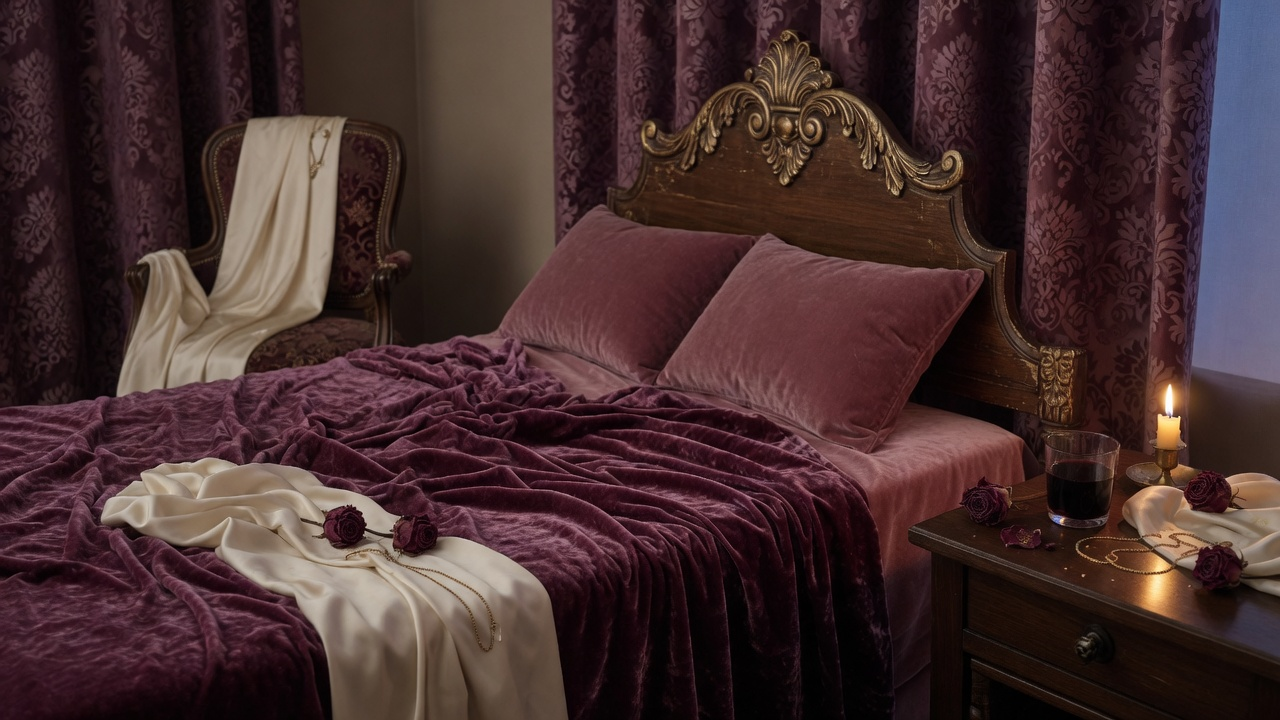
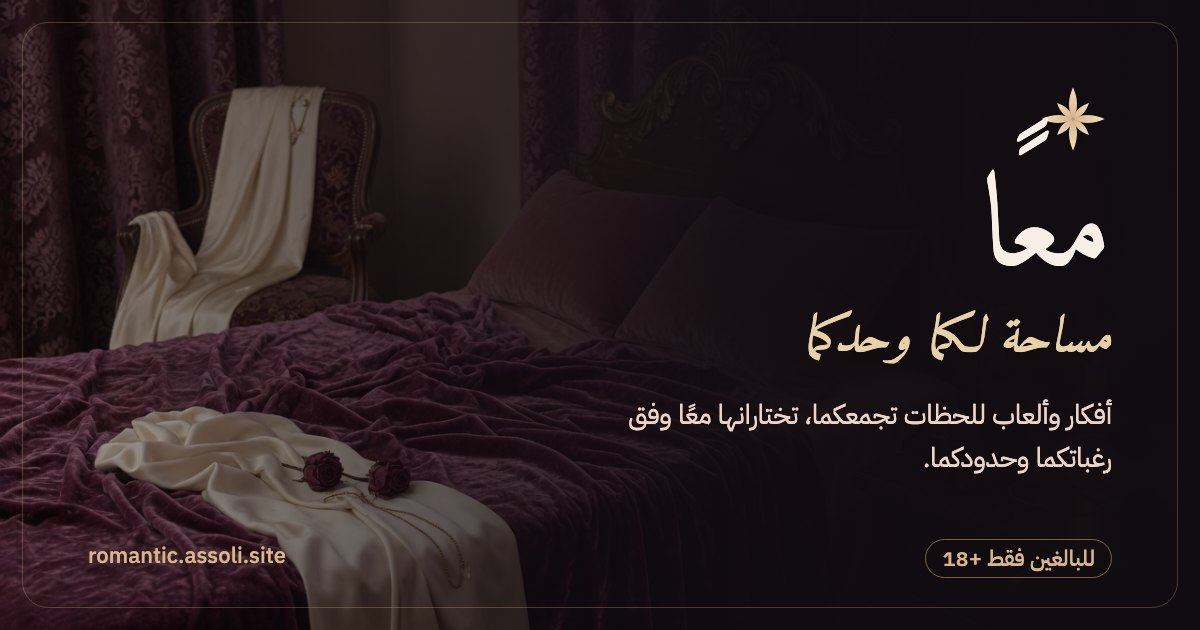
feat: add site branding and SEO metadata

diff --git a/app/layout.tsx b/app/layout.tsx
@@ -1,6 +1,7 @@
-import type { Metadata } from "next";
+import type { Metadata, Viewport } from "next";
 import { Amiri, IBM_Plex_Sans_Arabic } from "next/font/google";
 import "./globals.css";
+import { SITE_URL } from "../lib/site";
 import { Providers } from "./providers";
 
 const display = Amiri({
@@ -18,12 +19,38 @@ const sans = IBM_Plex_Sans_Arabic({
   display: "swap",
 });
 
+const description =
+  "أفكار وألعاب للحظات تجمعكما، تختارانها معًا وفق رغباتكما وحدودكما. للأزواج البالغين.";
+
 export const metadata: Metadata = {
-  // Absolute links for the share image: set SITE_URL to the public address.
-  metadataBase: new URL(process.env.SITE_URL ?? "http://localhost:3100"),
+  // Absolute links for share images, canonical, and the sitemap.
+  metadataBase: new URL(SITE_URL),
   title: { default: "معًا — مساحة لكما وحدكما", template: "%s — معًا" },
-  description:
-    "أفكار وألعاب للحظات تجمعكما، تختارانها معًا وفق رغباتكما وحدودكما. للأزواج البالغين.",
+  description,
+  applicationName: "معًا",
+  openGraph: {
+    type: "website",
+    siteName: "معًا",
+    locale: "ar_AR",
+  },
+  twitter: { card: "summary_large_image" },
+  // Tells SafeSearch this is adult content, so it is only shown to adults.
+  other: { rating: "adult" },
+};
+
+// Outside the age gate, so crawlers read it in the first HTML.
+const jsonLd = {
+  "@context": "https://schema.org",
+  "@type": "WebSite",
+  name: "معًا",
+  url: SITE_URL,
+  inLanguage: "ar",
+  isFamilyFriendly: false,
+};
+
+export const viewport: Viewport = {
+  themeColor: "#110c10",
+  colorScheme: "dark",
 };
 
 export default function RootLayout({ children }: LayoutProps<"/">) {
@@ -35,6 +62,7 @@ export default function RootLayout({ children }: LayoutProps<"/">) {
       className={`${display.variable} ${sans.variable} h-full antialiased`}
     >
       <body className="min-h-full flex flex-col">
+        <script type="application/ld+json">{JSON.stringify(jsonLd)}</script>
         <Providers>{children}</Providers>
       </body>
     </html>

diff --git a/app/play/layout.tsx b/app/play/layout.tsx
@@ -6,6 +6,7 @@ import { EndSession, Session } from "./session";
 
 export const metadata: Metadata = {
   title: "العبا معًا",
+  alternates: { canonical: "/play" },
   description:
     "بطاقات وعجلة وتوافق رغبات ووضعيات ومسار لليلة لزوجين بالغين، لا يظهر فيها إلا ما يقبله كلاكما.",
 };
@@ -17,9 +18,7 @@ export default function PlayLayout({ children }: LayoutProps<"/play">) {
         <div className="grain" aria-hidden="true" />
         <header className="site-header wrap">
           <Link className="brand" href="/" aria-label="معًا، الصفحة الرئيسية">
-            <span className="brand-mark" aria-hidden="true">
-              ✳
-            </span>
+            <span className="brand-mark" aria-hidden="true" />
             معًا
           </Link>
           <nav aria-label="التنقل الرئيسي">
@@ -35,9 +34,7 @@ export default function PlayLayout({ children }: LayoutProps<"/play">) {
         <NeedsLimits>{children}</NeedsLimits>
         <footer className="site-footer wrap">
           <Link className="brand" href="/">
-            <span className="brand-mark" aria-hidden="true">
-              ✳
-            </span>
+            <span className="brand-mark" aria-hidden="true" />
             معًا
           </Link>
           <p>

diff --git a/app/positions/layout.tsx b/app/positions/layout.tsx
@@ -4,6 +4,7 @@ import { ClearDataButton } from "../providers";
 
 export const metadata: Metadata = {
   title: "دليل الوضعيات",
+  alternates: { canonical: "/positions" },
   description:
     "وضعيات مرسومة مع شرح مباشر وخطوات واعتبارات الراحة والسلامة، للأزواج البالغين.",
 };
@@ -16,9 +17,7 @@ export default function PositionsLayout({
       <div className="grain" aria-hidden="true" />
       <header className="site-header wrap">
         <Link className="brand" href="/" aria-label="معًا، الصفحة الرئيسية">
-          <span className="brand-mark" aria-hidden="true">
-            ✳
-          </span>
+          <span className="brand-mark" aria-hidden="true" />
           معًا
         </Link>
         <nav aria-label="التنقل الرئيسي">
@@ -32,9 +31,7 @@ export default function PositionsLayout({
       {children}
       <footer className="site-footer wrap">
         <Link className="brand" href="/">
-          <span className="brand-mark" aria-hidden="true">
-            ✳
-          </span>
+          <span className="brand-mark" aria-hidden="true" />
           معًا
         </Link>
         <p>المفضلة والمستبعدة محفوظة على هذا الجهاز وحده، من دون حساب.</p>

diff --git a/app/page.tsx b/app/page.tsx
@@ -1,3 +1,4 @@
+import type { Metadata } from "next";
 import Image from "next/image";
 import Link from "next/link";
 import {
@@ -9,6 +10,8 @@ import {
 } from "../lib/site-images";
 import { ClearDataButton } from "./providers";
 
+export const metadata: Metadata = { alternates: { canonical: "/" } };
+
 export default function Home() {
   return (
     <main>
@@ -17,9 +20,7 @@ export default function Home() {
       <div className="site-shell" id="top">
         <header className="site-header wrap">
           <a className="brand" href="#top" aria-label="معًا، العودة إلى البداية">
-            <span className="brand-mark" aria-hidden="true">
-              ✳
-            </span>
+            <span className="brand-mark" aria-hidden="true" />
             معًا
           </a>
           <nav aria-label="التنقل الرئيسي">
@@ -272,9 +273,7 @@ export default function Home() {
 
       <footer className="site-footer wrap">
         <a className="brand" href="#top">
-          <span className="brand-mark" aria-hidden="true">
-            ✳
-          </span>
+          <span className="brand-mark" aria-hidden="true" />
           معًا
         </a>
         <p>مساحة خاصة للأزواج البالغين. الرضا والراحة دائمًا أولًا.</p>

diff --git a/app/manifest.ts b/app/manifest.ts
@@ -1,0 +1,31 @@
+import type { MetadataRoute } from "next";
+
+export default function manifest(): MetadataRoute.Manifest {
+  return {
+    name: "معًا — مساحة لكما وحدكما",
+    short_name: "معًا",
+    description:
+      "أفكار وألعاب للحظات تجمعكما، تختارانها معًا وفق رغباتكما وحدودكما.",
+    lang: "ar",
+    dir: "rtl",
+    start_url: "/",
+    display: "standalone",
+    background_color: "#110c10",
+    theme_color: "#110c10",
+    icons: [
+      { src: "/icon.svg", sizes: "any", type: "image/svg+xml" },
+      {
+        src: "/icon-192.png",
+        sizes: "192x192",
+        type: "image/png",
+        purpose: "maskable",
+      },
+      {
+        src: "/icon-512.png",
+        sizes: "512x512",
+        type: "image/png",
+        purpose: "maskable",
+      },
+    ],
+  };
+}

diff --git a/app/positions/[slug]/layout.tsx b/app/positions/[slug]/layout.tsx
@@ -1,0 +1,21 @@
+import { fetchQuery } from "convex/nextjs";
+import type { Metadata } from "next";
+import { api } from "@/convex/_generated/api";
+
+// The page renders on the client; this gives shared links and crawlers its name.
+export async function generateMetadata({
+  params,
+}: LayoutProps<"/positions/[slug]">): Promise<Metadata> {
+  const { slug } = await params;
+  const position = await fetchQuery(api.positions.get, { slug });
+  if (!position) return { robots: { index: false } };
+  return {
+    title: `${position.name} — دليل الوضعيات — معًا`,
+    description: position.summary,
+    alternates: { canonical: `/positions/${slug}` },
+  };
+}
+
+export default function Layout({ children }: LayoutProps<"/positions/[slug]">) {
+  return children;
+}

diff --git a/app/sitemap.ts b/app/sitemap.ts
@@ -1,0 +1,24 @@
+import { fetchQuery } from "convex/nextjs";
+import type { MetadataRoute } from "next";
+import { api } from "@/convex/_generated/api";
+import { SITE_URL } from "@/lib/site";
+
+const pages = [
+  "",
+  "/positions",
+  "/play",
+  "/play/cards",
+  "/play/desires",
+  "/play/discover",
+  "/play/library",
+  "/play/path",
+  "/play/wheel",
+];
+
+export default async function sitemap(): Promise<MetadataRoute.Sitemap> {
+  const positions = await fetchQuery(api.positions.list, {});
+  return [
+    ...pages.map((path) => ({ url: `${SITE_URL}${path}` })),
+    ...positions.map((p) => ({ url: `${SITE_URL}/positions/${p.slug}` })),
+  ];
+}

diff --git a/app/admin/layout.tsx b/app/admin/layout.tsx
@@ -12,9 +12,7 @@ export default function AdminLayout({ children }: LayoutProps<"/admin">) {
       <div className="grain" aria-hidden="true" />
       <header className="site-header wrap">
         <Link className="brand" href="/" aria-label="معًا، الصفحة الرئيسية">
-          <span className="brand-mark" aria-hidden="true">
-            ✳
-          </span>
+          <span className="brand-mark" aria-hidden="true" />
           معًا
         </Link>
         <span className="adult-note">إدارة المحتوى</span>

diff --git a/app/play/discover/layout.tsx b/app/play/discover/layout.tsx
@@ -1,5 +1,8 @@
-// Only here for the tab title; the game itself is a client page.
-export const metadata = { title: "اكتشاف الوضعيات — معًا" };
+// Only here for the tab title and canonical link; the game itself is a client page.
+export const metadata = {
+  title: "اكتشاف الوضعيات — معًا",
+  alternates: { canonical: "/play/discover" },
+};
 
 export default function Layout({ children }: LayoutProps<"/play/discover">) {
   return children;

diff --git a/app/play/library/layout.tsx b/app/play/library/layout.tsx
@@ -1,5 +1,8 @@
-// Only here for the tab title; the game itself is a client page.
-export const metadata = { title: "مكتبة التحديات — معًا" };
+// Only here for the tab title and canonical link; the game itself is a client page.
+export const metadata = {
+  title: "مكتبة التحديات — معًا",
+  alternates: { canonical: "/play/library" },
+};
 
 export default function Layout({ children }: LayoutProps<"/play/library">) {
   return children;

diff --git a/app/play/desires/layout.tsx b/app/play/desires/layout.tsx
@@ -1,5 +1,8 @@
-// Only here for the tab title; the game itself is a client page.
-export const metadata = { title: "توافق الرغبات — معًا" };
+// Only here for the tab title and canonical link; the game itself is a client page.
+export const metadata = {
+  title: "توافق الرغبات — معًا",
+  alternates: { canonical: "/play/desires" },
+};
 
 export default function Layout({ children }: LayoutProps<"/play/desires">) {
   return children;

diff --git a/app/play/cards/layout.tsx b/app/play/cards/layout.tsx
@@ -1,5 +1,8 @@
-// Only here for the tab title; the game itself is a client page.
-export const metadata = { title: "بطاقات التحدي — معًا" };
+// Only here for the tab title and canonical link; the game itself is a client page.
+export const metadata = {
+  title: "بطاقات التحدي — معًا",
+  alternates: { canonical: "/play/cards" },
+};
 
 export default function Layout({ children }: LayoutProps<"/play/cards">) {
   return children;
